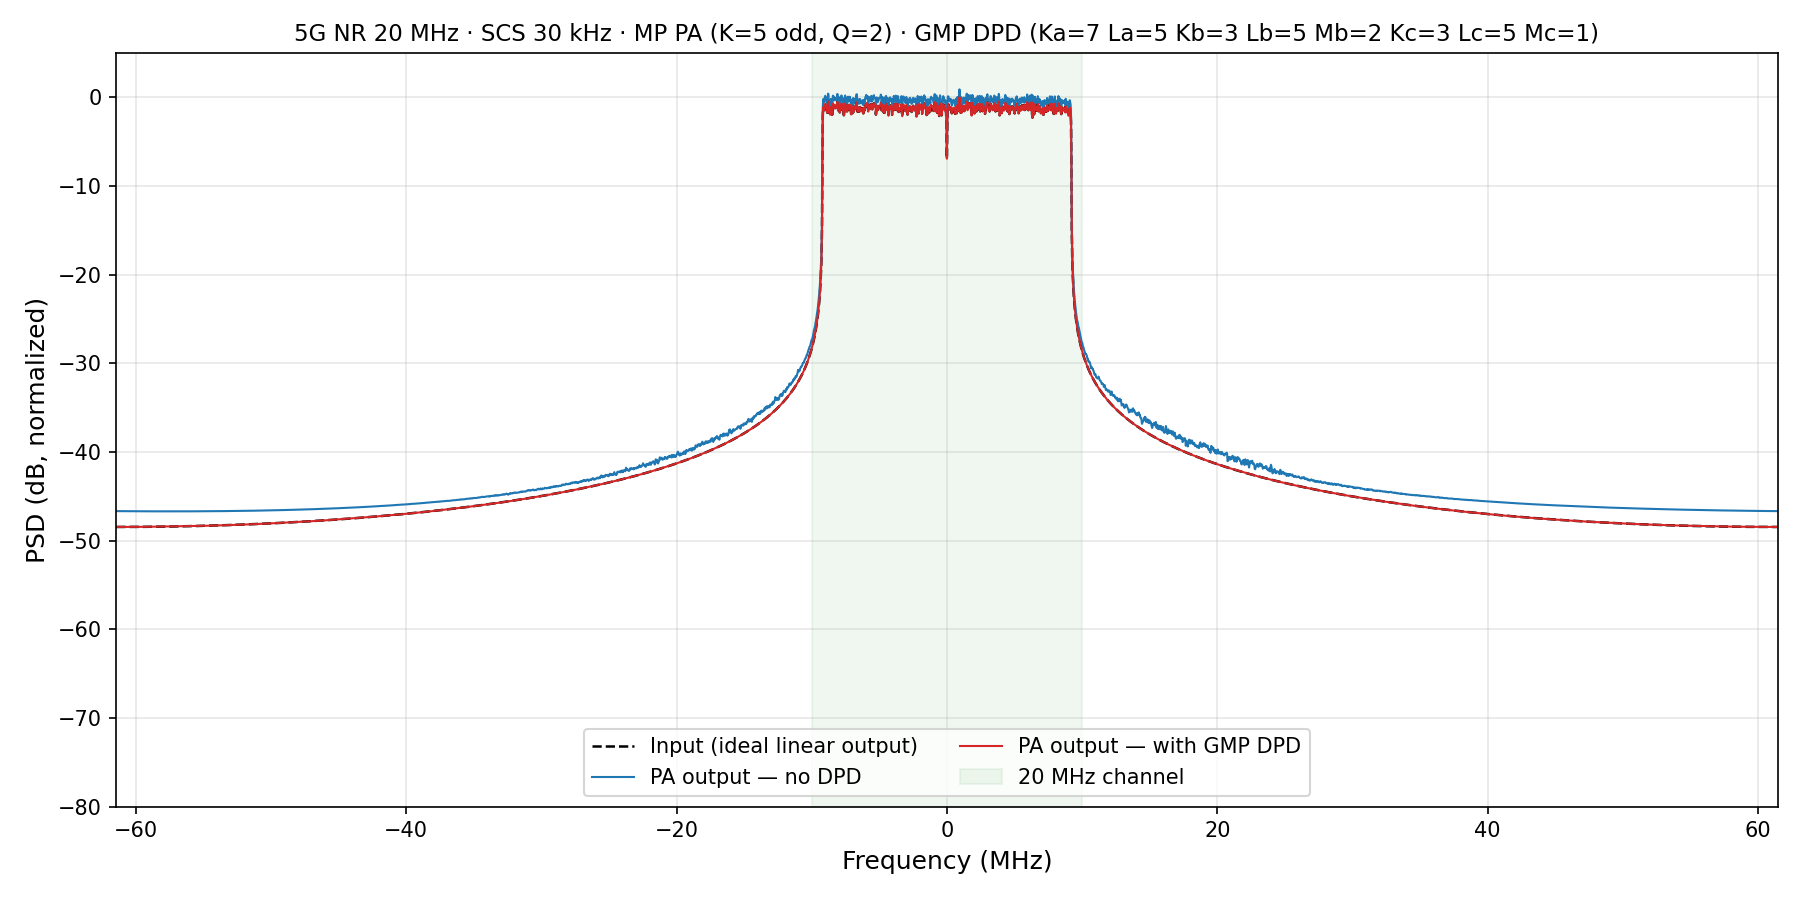
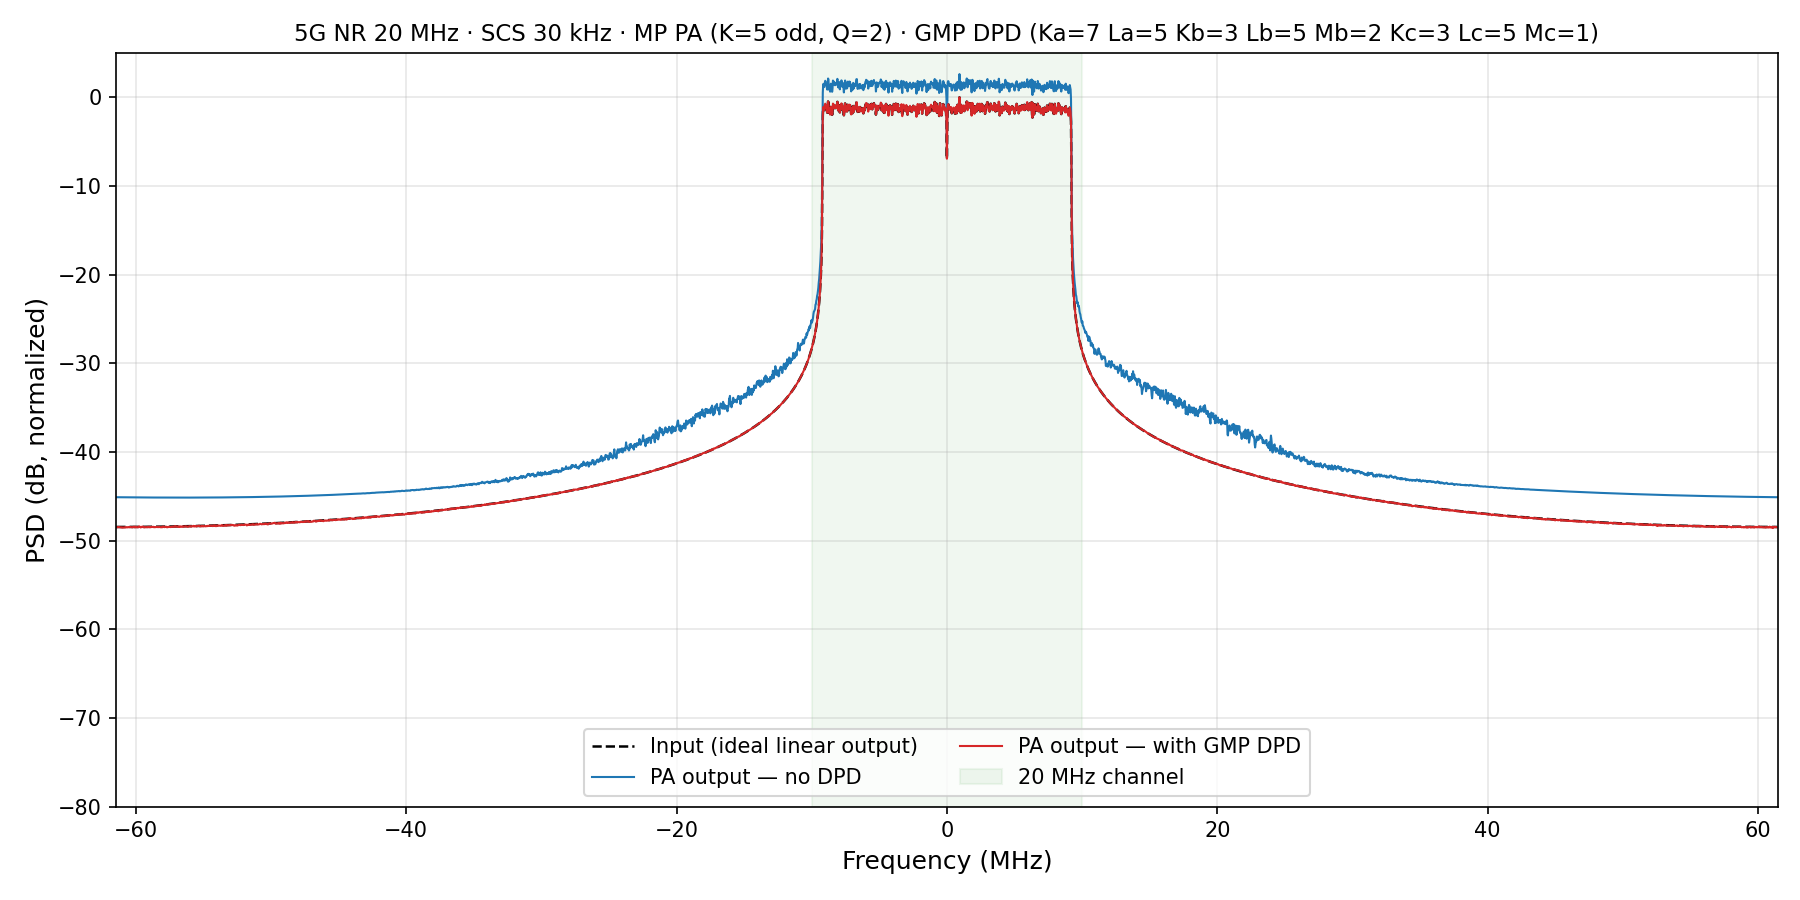
Switch input signal from 5G NR to WCDMA carrier
Replace 5G NR 20 MHz OFDM generator with WCDMA signal generator
(3.84 Mcps, 5 MHz BW, 8 OVSF codes, RRC pulse shaping, fs=30.72 MHz).
Increase drive level to target_rms=0.28 for visible spectral regrowth.
Update PSD plot frequency axis to span -20 to +20 MHz.

Made-with: Cursor

diff --git a/gmp_dpd_standalone.py b/gmp_dpd_standalone.py
@@ -358,94 +358,116 @@ def memory_polynomial_pa(
 
 
 # ---------------------------------------------------------------------------
-# 5G NR OFDM Signal Generator
+# WCDMA Signal Generator
 # ---------------------------------------------------------------------------
 
-def generate_64qam(n: int) -> np.ndarray:
-    """Generate *n* random 64-QAM symbols (unit average power)."""
-    levels = np.array([-7, -5, -3, -1, 1, 3, 5, 7])
-    i = np.random.choice(levels, n)
-    q = np.random.choice(levels, n)
-    return (i + 1j * q) / np.sqrt(42.0)
-
-
-def generate_5g_nr_ofdm(
-    n_symbols: int,
-    n_rb: int = 51,
-    scs: float = 30e3,
-    fs: float = 122.88e6,
+def generate_wcdma(
+    n_samples: int,
+    n_codes: int = 8,
+    chip_rate: float = 3.84e6,
+    fs: float = 30.72e6,
+    sf: int = 16,
 ) -> np.ndarray:
     """
-    Generate a 5G NR-like OFDM time-domain signal (complex baseband).
+    Generate a WCDMA-like downlink baseband signal.
+
+    Sums multiple OVSF-spread QPSK channels, each at a given spreading
+    factor, then upsamples to the target sampling rate using an RRC filter.
 
     Parameters
     ----------
-    n_symbols : number of OFDM symbols to generate
-    n_rb      : resource blocks (51 for 20 MHz BW with 30 kHz SCS, TS 38.104)
-    scs       : subcarrier spacing [Hz]
-    fs        : sampling rate [Hz]
+    n_samples : desired number of output samples at rate *fs*
+    n_codes   : number of simultaneously active channelisation codes
+    chip_rate : WCDMA chip rate [Hz] (3.84 Mcps)
+    fs        : output sampling rate [Hz]
+    sf        : spreading factor per code channel
 
     Returns
     -------
-    signal : complex ndarray — time-domain baseband samples
+    signal : complex ndarray, shape (n_samples,) — baseband at rate fs
     """
-    n_fft = int(fs / scs)                       # 4096
-    n_sc = n_rb * 12                             # 612 active subcarriers
-    n_sc_half = n_sc // 2                        # 306 per side
+    oversample = int(round(fs / chip_rate))  # 8 for 30.72 MHz
+    n_chips = n_samples // oversample + sf
 
-    # Normal CP lengths per slot (14 symbols) at 122.88 MHz, μ=1
-    # Symbols 0 and 7 carry extended CP; total CP per slot = 4096 samples
-    cp_per_slot = [320, 288, 288, 288, 288, 288, 288,
-                   320, 288, 288, 288, 288, 288, 288]
+    # OVSF codes (Walsh-Hadamard rows)
+    def _ovsf(sf_val, code_idx):
+        h = np.array([[1]])
+        while h.shape[0] < sf_val:
+            h = np.block([[h, h], [h, -h]])
+        return h[code_idx % sf_val]
 
-    parts = []
-    for s in range(n_symbols):
-        data = generate_64qam(n_sc)
+    composite = np.zeros(n_chips, dtype=np.complex128)
+    n_symbols_per_code = n_chips // sf
 
-        freq = np.zeros(n_fft, dtype=np.complex128)
-        freq[1 : n_sc_half + 1]      = data[n_sc_half:]    # positive freqs
-        freq[n_fft - n_sc_half :]     = data[:n_sc_half]    # negative freqs
+    for c in range(n_codes):
+        qpsk = (np.sign(np.random.randn(n_symbols_per_code))
+                + 1j * np.sign(np.random.randn(n_symbols_per_code))) / np.sqrt(2)
+        spread = np.repeat(qpsk, sf) * np.tile(_ovsf(sf, c + 1), n_symbols_per_code)
+        composite[:len(spread)] += spread
 
-        td = np.fft.ifft(freq) * np.sqrt(n_fft)
+    composite /= np.sqrt(n_codes)
 
-        cp_len = cp_per_slot[s % 14]
-        parts.append(np.concatenate([td[-cp_len:], td]))
+    # Upsample by inserting zeros then apply RRC pulse-shaping filter
+    upsampled = np.zeros(n_chips * oversample, dtype=np.complex128)
+    upsampled[::oversample] = composite
 
-    return np.concatenate(parts)
+    # RRC filter (roll-off 0.22 per 3GPP, 12-symbol span)
+    alpha = 0.22
+    span_syms = 12
+    t_rrc = np.arange(-span_syms * oversample, span_syms * oversample + 1) / oversample
+    eps = 1e-12
+    h_rrc = np.where(
+        np.abs(t_rrc) < eps,
+        1.0 - alpha + 4.0 * alpha / np.pi,
+        np.where(
+            np.abs(np.abs(t_rrc) - 1.0 / (4.0 * alpha)) < eps,
+            alpha / np.sqrt(2) * (
+                (1 + 2 / np.pi) * np.sin(np.pi / (4 * alpha))
+                + (1 - 2 / np.pi) * np.cos(np.pi / (4 * alpha))
+            ),
+            (np.sin(np.pi * t_rrc * (1 - alpha))
+             + 4 * alpha * t_rrc * np.cos(np.pi * t_rrc * (1 + alpha))
+            ) / (np.pi * t_rrc * (1 - (4 * alpha * t_rrc) ** 2 + eps))
+        )
+    )
+    h_rrc /= np.sqrt(np.sum(h_rrc ** 2))
+    h_rrc *= oversample
+
+    filtered = np.convolve(upsampled, h_rrc, mode='full')
+    start = len(h_rrc) // 2
+    return filtered[start : start + n_samples]
 
 
 # ===================================================================
-# Example / Demo  —  5G NR 20 MHz, SCS = 30 kHz
+# Example / Demo  —  WCDMA 5 MHz carrier
 # ===================================================================
 
 def main():
     np.random.seed(42)
 
     # ==================================================================
-    # 5G NR signal parameters
+    # WCDMA signal parameters
     # ==================================================================
-    scs       = 30e3        # subcarrier spacing
-    bw_mhz    = 20          # channel bandwidth
-    n_rb      = 51          # RBs for 20 MHz @ 30 kHz SCS  (TS 38.104)
-    fs        = 122.88e6    # sampling rate  → ±61.44 MHz PSD span
-    n_fft     = int(fs / scs)   # 4096
+    chip_rate = 3.84e6      # 3.84 Mcps
+    bw_mhz   = 5            # 5 MHz channel bandwidth
+    fs        = 30.72e6     # 8× oversampled → ±15.36 MHz Nyquist
+    n_codes   = 8           # active channelisation codes
 
-    n_train_symbols = 200   # ~870 k samples
-    n_test_symbols  = 50    # ~218 k samples
+    N_train = 200_000       # training samples at fs
+    N_test  = 50_000        # test samples at fs
 
-    print(f"5G NR signal: BW={bw_mhz} MHz, SCS={scs/1e3:.0f} kHz, "
-          f"N_RB={n_rb}, N_sc={n_rb*12}, N_FFT={n_fft}, fs={fs/1e6:.2f} MHz")
+    print(f"WCDMA signal: BW={bw_mhz} MHz, chip rate={chip_rate/1e6:.2f} Mcps, "
+          f"{n_codes} codes, fs={fs/1e6:.2f} MHz")
 
     # ------------------------------------------------------------------
-    # 1. Generate OFDM signals
+    # 1. Generate WCDMA signals
     # ------------------------------------------------------------------
-    x_train_c = generate_5g_nr_ofdm(n_train_symbols, n_rb=n_rb, scs=scs, fs=fs)
-    x_test_c  = generate_5g_nr_ofdm(n_test_symbols,  n_rb=n_rb, scs=scs, fs=fs)
+    x_train_c = generate_wcdma(N_train, n_codes=n_codes, chip_rate=chip_rate, fs=fs)
+    x_test_c  = generate_wcdma(N_test,  n_codes=n_codes, chip_rate=chip_rate, fs=fs)
 
-    # Scale signal so the PA operates in mild compression.
-    # The PA coefficients (Eq. 12) are designed for signals with peak
-    # amplitude near 0.5, where the k=3 and k=5 terms contribute visibly.
-    target_rms = 0.15
+    # Scale signal to drive the PA into significant compression.
+    # WCDMA PAPR ~8.6 dB → peaks reach ~0.76 where k=5 terms are strong.
+    target_rms = 0.28
     x_train_c *= target_rms / np.sqrt(np.mean(np.abs(x_train_c)**2))
     x_test_c  *= target_rms / np.sqrt(np.mean(np.abs(x_test_c)**2))
 
@@ -501,9 +523,10 @@ def main():
     nmse_after  = nmse_db(y_test_with_dpd, ideal_output)
 
     channel_bw_hz = bw_mhz * 1e6
-    aclr_lo_no,  aclr_hi_no  = aclr_db(y_test_no_dpd,  fs, channel_bw_hz, nperseg=n_fft)
-    aclr_lo_dpd, aclr_hi_dpd = aclr_db(y_test_with_dpd, fs, channel_bw_hz, nperseg=n_fft)
-    aclr_lo_ideal, aclr_hi_ideal = aclr_db(ideal_output, fs, channel_bw_hz, nperseg=n_fft)
+    nperseg_metric = 4096
+    aclr_lo_no,  aclr_hi_no  = aclr_db(y_test_no_dpd,  fs, channel_bw_hz, nperseg=nperseg_metric)
+    aclr_lo_dpd, aclr_hi_dpd = aclr_db(y_test_with_dpd, fs, channel_bw_hz, nperseg=nperseg_metric)
+    aclr_lo_ideal, aclr_hi_ideal = aclr_db(ideal_output, fs, channel_bw_hz, nperseg=nperseg_metric)
 
     print(f"\n{'='*60}")
     print(f"  {'Metric':<28s} {'No DPD':>10s} {'GMP DPD':>10s} {'Ideal':>10s}")
@@ -516,7 +539,7 @@ def main():
     print(f"{'='*60}")
 
     # ------------------------------------------------------------------
-    # 6. PSD Plot  (frequency axis: −61.44 … +61.44 MHz)
+    # 6. PSD Plot  (frequency axis: −20 … +20 MHz)
     # ------------------------------------------------------------------
     try:
         import matplotlib
@@ -524,7 +547,7 @@ def main():
         import matplotlib.pyplot as plt
         from scipy.signal import welch
 
-        nperseg_psd = n_fft  # one full OFDM symbol → Δf = SCS = 30 kHz
+        nperseg_psd = 4096
 
         def compute_psd(iq):
             c = iq_to_complex(iq) if iq.ndim == 2 else iq
@@ -554,15 +577,15 @@ def main():
         ax.plot(f_mhz, psd_with_dpd_db, color='#d62728',  linewidth=1.0,
                 label='PA output — with GMP DPD')
 
-        # Channel bandwidth shading
         ax.axvspan(-bw_mhz / 2, bw_mhz / 2, color='green', alpha=0.06,
                    label=f'{bw_mhz} MHz channel')
 
-        ax.set_xlim(-61.44, 61.44)
+        ax.set_xlim(-20, 20)
         ax.set_ylim(-80, 5)
         ax.set_xlabel('Frequency (MHz)', fontsize=12)
         ax.set_ylabel('PSD (dB, normalized)', fontsize=12)
-        ax.set_title(f'5G NR {bw_mhz} MHz · SCS {scs/1e3:.0f} kHz · '
+        ax.set_title(f'WCDMA {bw_mhz} MHz · {chip_rate/1e6:.2f} Mcps · '
+                     f'{n_codes} codes · '
                      f'MP PA (K={pa_K} odd, Q={pa_Q}) · '
                      f'GMP DPD (Ka={cfg.Ka} La={cfg.La} Kb={cfg.Kb} '
                      f'Lb={cfg.Lb} Mb={cfg.Mb} Kc={cfg.Kc} Lc={cfg.Lc} '
@@ -572,8 +595,8 @@ def main():
         ax.grid(True, alpha=0.3)
 
         fig.tight_layout()
-        fig.savefig('gmp_dpd_5gnr_psd.png', dpi=150)
-        print(f"\nPSD plot saved to gmp_dpd_5gnr_psd.png")
+        fig.savefig('gmp_dpd_wcdma_psd.png', dpi=150)
+        print(f"\nPSD plot saved to gmp_dpd_wcdma_psd.png")
         plt.show()
 
     except ImportError:
